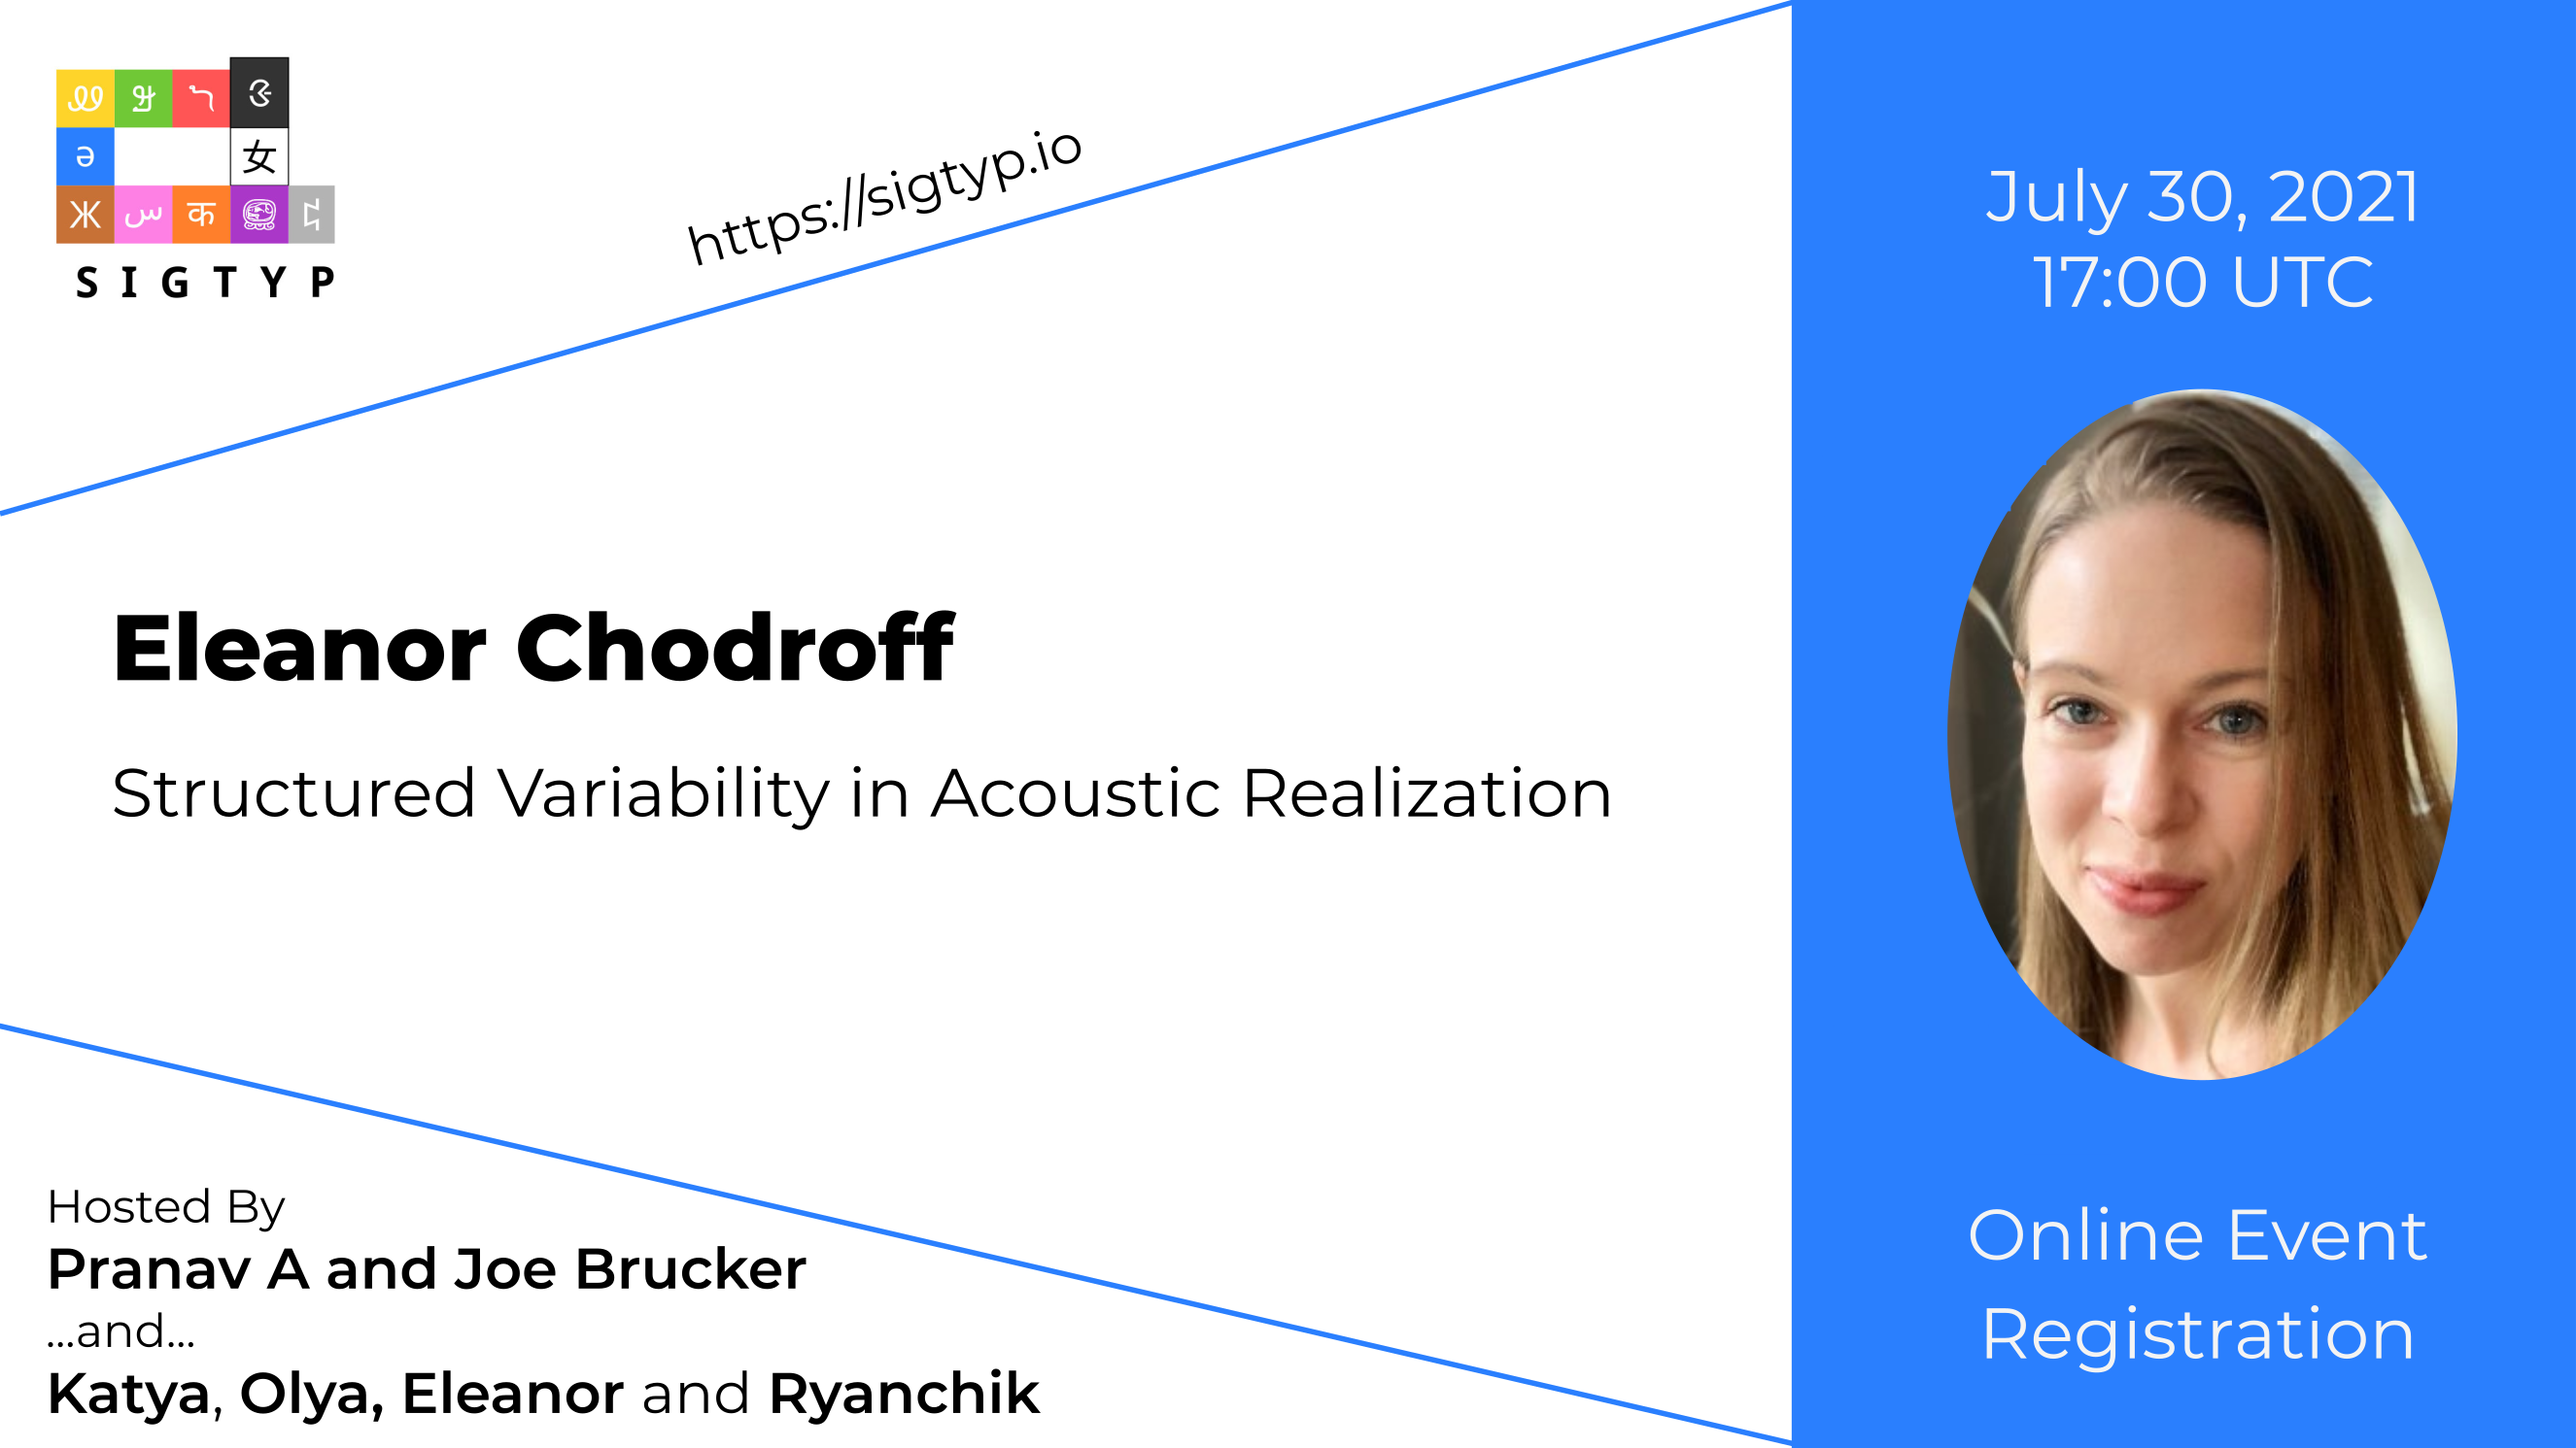
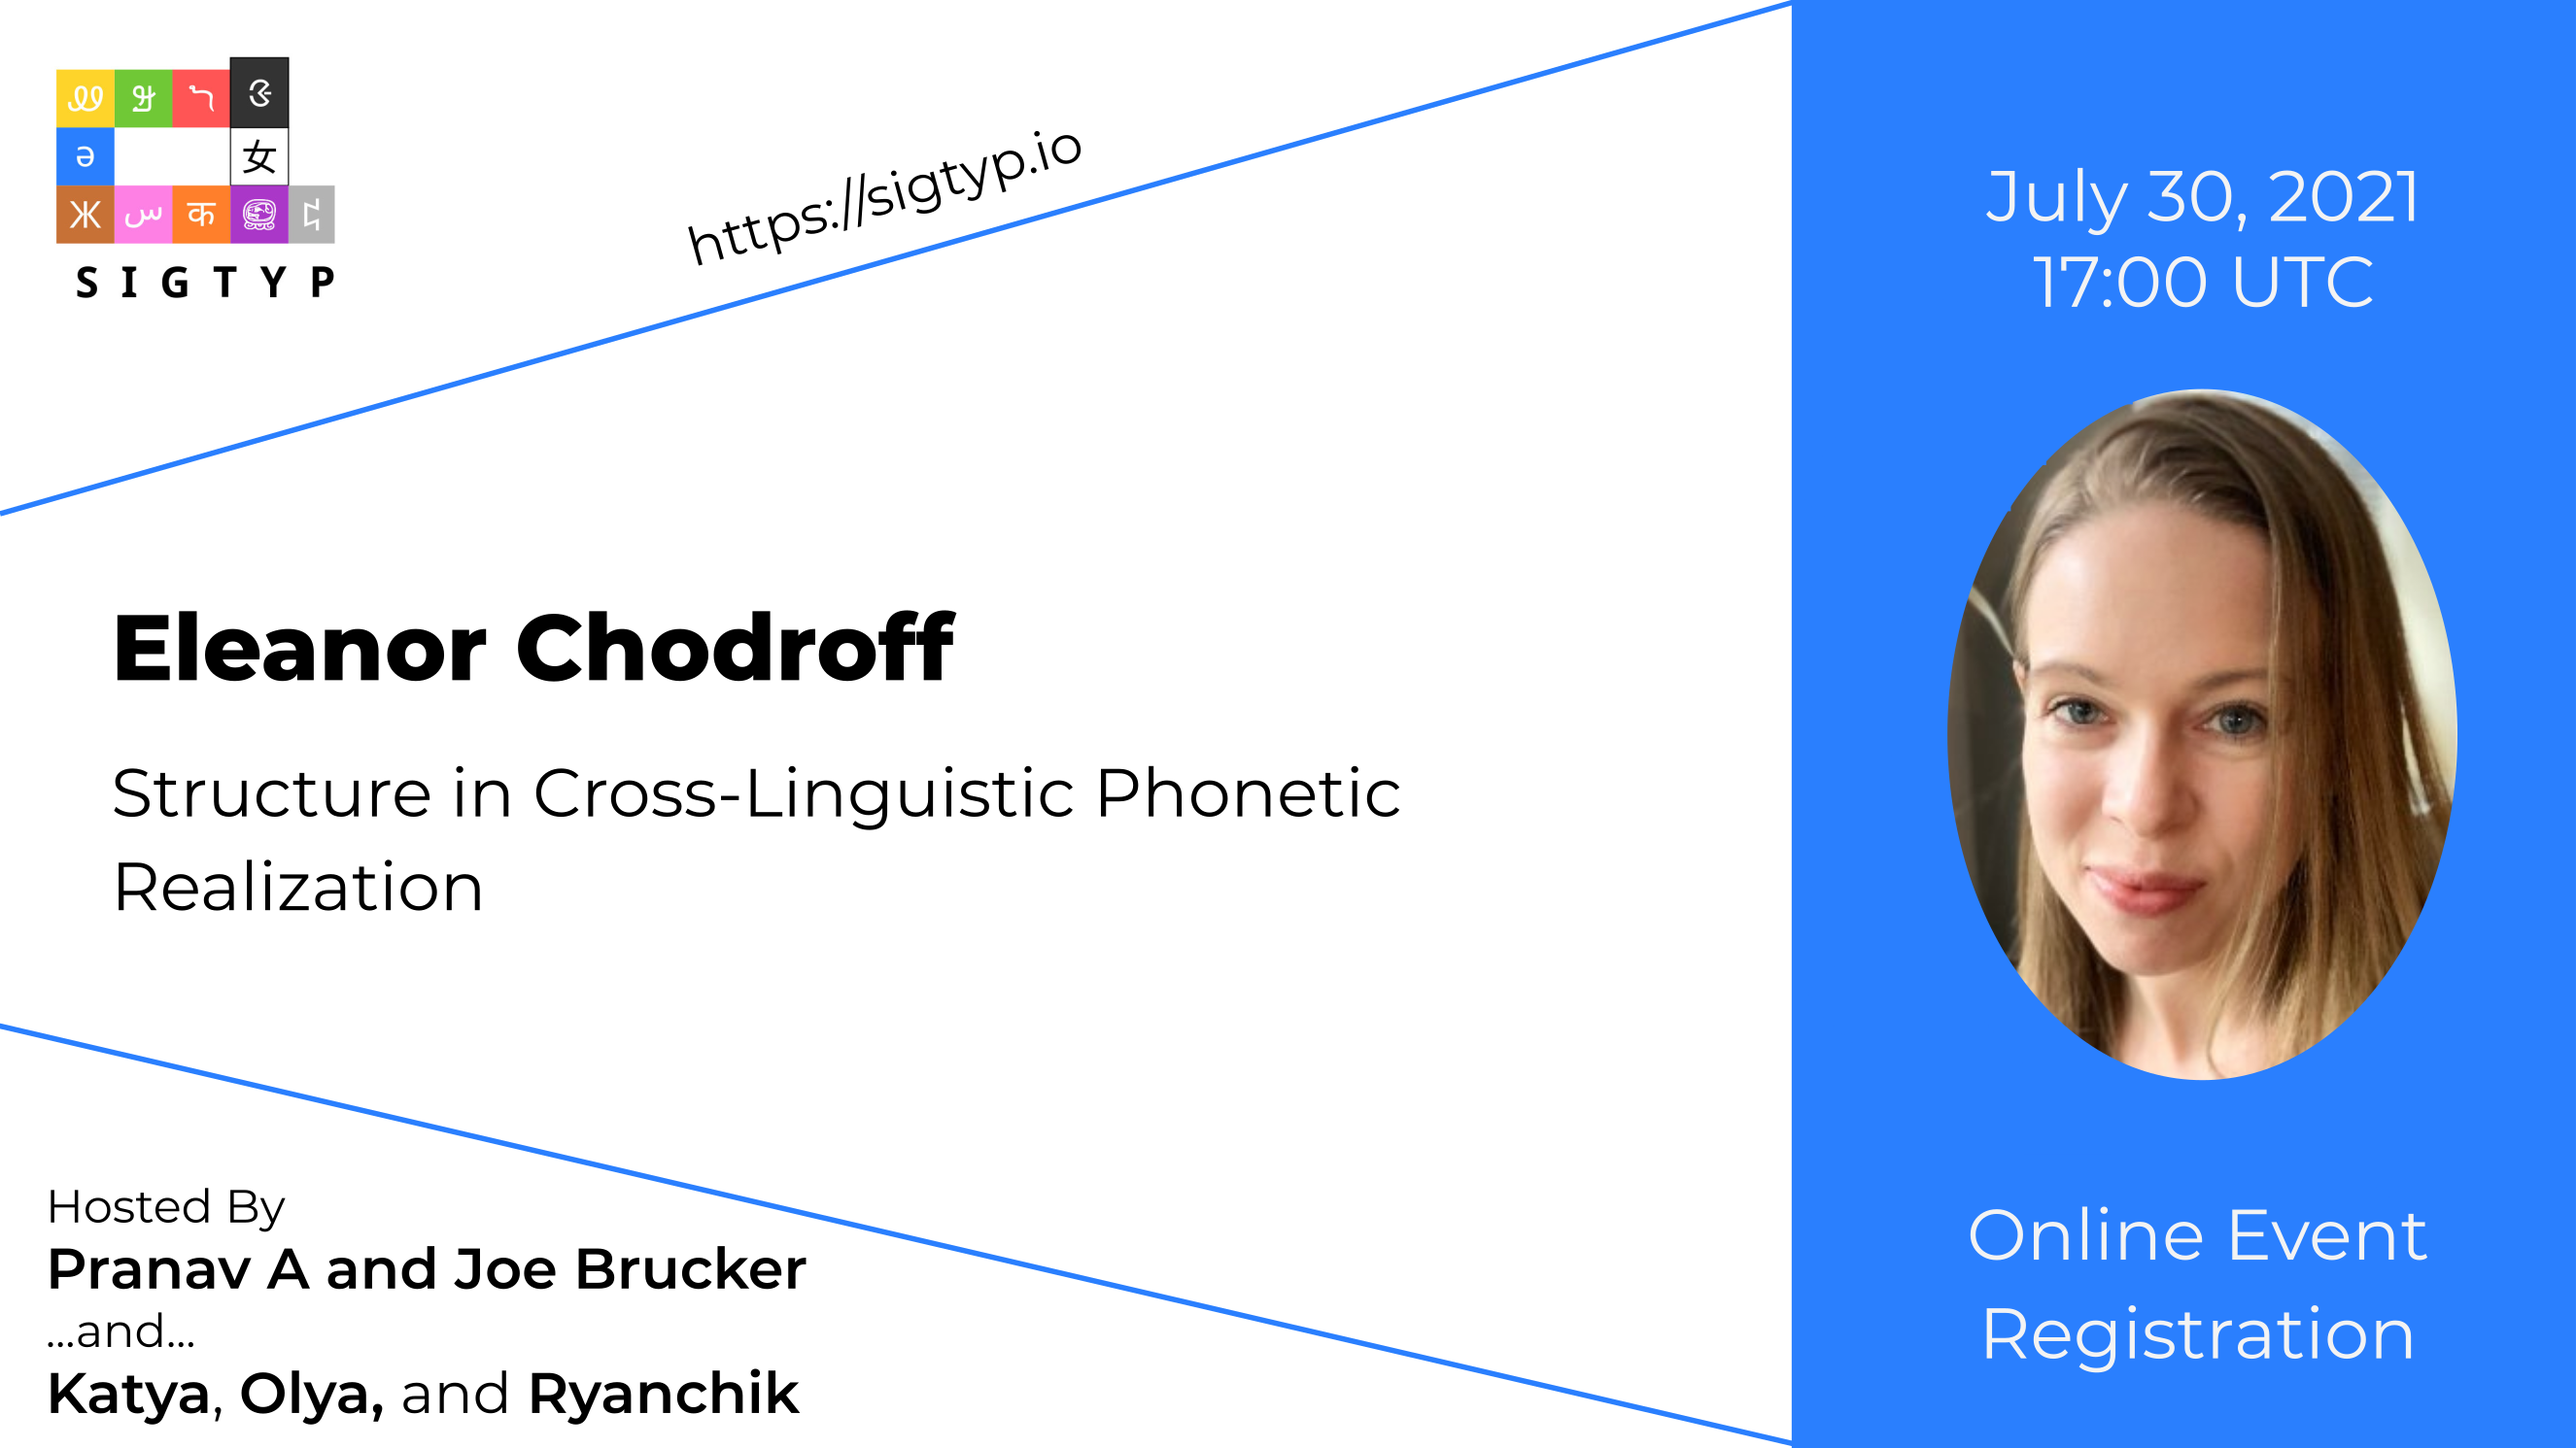
++eleanor/sabrina

Changed region(s): [[0.1547, 0.5245, 0.6186, 0.5862], [0.1547, 0.9256, 0.4021, 0.9873], [0.0309, 0.5862, 0.1856, 0.6479]]

diff --git a/lectures.html b/lectures.html
@@ -229,17 +229,17 @@ img {vertical-align: middle;}
   </div-->
 
 
-  <div class="mySlides">
+  <!--div class="mySlides">
     <div class="numbertext"></div>
     <a href="https://www.eventbrite.co.uk/e/sigtyp-lecture-series-tuhin-chakrabarty-tickets-161252072289" class="image full"><img src="lectures/speakers/tuhin_chakrabarty.png" style="width:100%"></a>
     <div class="text1"><a href="https://www.eventbrite.co.uk/e/sigtyp-lecture-series-tuhin-chakrabarty-tickets-161252072289">Neuro-Symbolic methods for creative text generation</a></div>
-  </div>
+  </div-->
 
 
 <div class="mySlides">
     <div class="numbertext"></div>
-    <a href="https://TBA" class="image full"><img src="lectures/speakers/sabrina-mielke.png" style="width:100%"></a>
-    <div class="text1"><a href="https://TBA">Fair Comparisons for Generative Language Models -- with a bit of Information Theory</a></div>
+    <a href="https://www.eventbrite.co.uk/e/sigtyp-lecture-series-sabrina-j-mielke-tickets-156592866479" class="image full"><img src="lectures/speakers/sabrina-mielke.png" style="width:100%"></a>
+    <div class="text1"><a href="https://www.eventbrite.co.uk/e/sigtyp-lecture-series-sabrina-j-mielke-tickets-156592866479">Fair Comparisons for Generative Language Models -- with a bit of Information Theory</a></div>
   </div>
 
 
@@ -506,10 +506,12 @@ Richard Futrell is an Assistant Professor in the Department of Language Science 
       </div>
       <div id="lecture-chodroff" class="panel-collapse collapse">
         <div class="panel-body" style="align: center; text-align:center">
-<p align="left" style="color:red;font-size:16px"></p>
+<p align="left" style="color:red;font-size:16px">Eleanor Chodroff: Structure in Cross-linguistic Phonetic Realization</p>
 <p align="left">
-TBA
-<p  align="center"><a href="TBA"  class="button small">Slides</a>&nbsp;&nbsp;<a href="TBA"  class="button small">BiliBili</a>&nbsp;&nbsp;<a href="https://sigtyp.inf.ethz.ch/channel/lecture-chodroff"  class="button small">RocketChat</a>&nbsp;&nbsp;<a href="https://TBA"  class="button small">Website</a></p>
+A central goal of linguistic study is to understand the range and limits of cross-linguistic variation. Cross-linguistic phonetic variation is no exception to this pursuit: previous research has provided some insight into expected universal tendencies, but access to relevant and large-scale speech data has only recently become feasible. In this talk, I focus on structure in cross-linguistic phonetic variation that may reflect a universal tendency for uniformity in the phonetic realisation of a shared feature. I present case studies from cross-talker variation within a language, and then insight from cross-linguistic meta-analyses and larger-scale corpus studies.
+<br/>
+Bio:<br/> Eleanor Chodroff is a Lecturer in Phonetics and Phonology at the University of York. She received her PhD in Cognitive Science from Johns Hopkins University in 2017 and did a post-doc at Northwestern University in Linguistics working on speech prosody. Her research focuses on the phonetics–phonology interface, cross-talker and cross-linguistic phonetic variation, speech prosody, and speech perception.
+<p  align="center"><a href="TBA"  class="button small">Slides</a>&nbsp;&nbsp;<a href="TBA"  class="button small">BiliBili</a>&nbsp;&nbsp;<a href="https://sigtyp.inf.ethz.ch/channel/lecture-chodroff"  class="button small">RocketChat</a>&nbsp;&nbsp;<a href="https://www.eleanorchodroff.com/"  class="button small">Website</a></p>
        </div>
       </div>
     </div>

diff --git a/index.html b/index.html
@@ -223,8 +223,8 @@ img {vertical-align: middle;}
 					<h2 style="font-size:28px">Online Lecture Series</h2>
 				</header>
 <div class="container">
-				<a href="https://www.eventbrite.co.uk/e/sigtyp-lecture-series-tuhin-chakrabarty-tickets-161252072289" class="image centered"><img src="lectures/speakers/tuhin_chakrabarty.png" alt="SIGTYP2021" style="width:100%"></a><br/>
-					<p style="font-size:18px;text-align:left;">SIGTYP is starting a online lecture series. Our upcoming lecturer is Tuhin Chakrabarty who will speak on <i>Neuro-Symbolic methods for creative text generation</i> The event will be held over Zoom on Jul 9th at 17:00 UTC. <b><a href="https://www.eventbrite.co.uk/e/sigtyp-lecture-series-tuhin-chakrabarty-tickets-161252072289">Sign up here.</a></b> </p>
+				<a href="https://www.eventbrite.co.uk/e/sigtyp-lecture-series-sabrina-j-mielke-tickets-156592866479" class="image centered"><img src="lectures/speakers/sabrina-mielke.png" alt="SIGTYP2021" style="width:100%"></a><br/>
+					<p style="font-size:18px;text-align:left;">SIGTYP is starting a online lecture series. Our upcoming lecturer is Sabrina J Mielke who will speak on <i>Fair comparisons for generative language models—with a bit of Information Theory</i> The event will be held over Zoom on Jul 16th at 00:00 UTC (check your time zone <a href="https://everytimezone.com/?t=60c93f00,0">HERE</a>). <b><a href="https://www.eventbrite.co.uk/e/sigtyp-lecture-series-sabrina-j-mielke-tickets-156592866479">Sign up here.</a></b> </p>
 </div>				
 				<header>
 					<h2 style="font-size:28px">Resources</h2>
